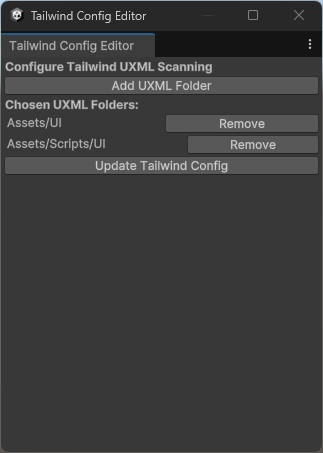
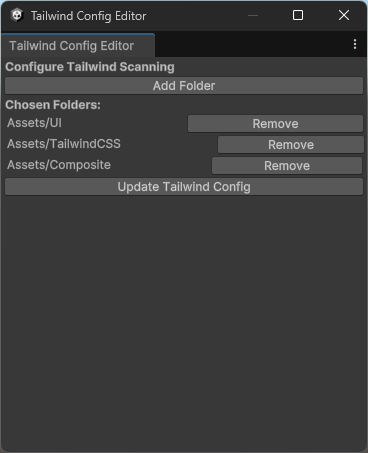
update README

diff --git a/Packages/com.ngc-corp.unity-tailwindcss/Editor/TailwindConfigEditor.cs b/Packages/com.ngc-corp.unity-tailwindcss/Editor/TailwindConfigEditor.cs
@@ -25,12 +25,12 @@ namespace NGCCorp.TailwindCSS
 
     private void OnGUI()
     {
-      GUILayout.Label("Configure Tailwind UXML and CS Scanning", EditorStyles.boldLabel);
+      GUILayout.Label("Configure Tailwind Scanning", EditorStyles.boldLabel);
 
       // Button to select new UXML folder
-      if (GUILayout.Button("Add UXML and CS Folders"))
+      if (GUILayout.Button("Add Folder"))
       {
-        string selectedFolder = EditorUtility.OpenFolderPanel("Select UXML and CS Folders", "", "");
+        string selectedFolder = EditorUtility.OpenFolderPanel("Select Folder", "", "");
 
         if (!string.IsNullOrEmpty(selectedFolder))
         {
@@ -44,7 +44,7 @@ namespace NGCCorp.TailwindCSS
       }
 
       // Display already chosen UXML folders
-      GUILayout.Label("Chosen UXML Folders:", EditorStyles.boldLabel);
+      GUILayout.Label("Chosen Folders:", EditorStyles.boldLabel);
 
       for (int i = 0; i < uxmlFolderPaths.Count; i++)
       {

diff --git a/README.md b/README.md
@@ -1,6 +1,6 @@
 # Unity - Tailwind CSS
 
-Tailwind CSS for Unity allows developers to integrate the powerful Tailwind CSS framework with Unity's UI Toolkit. This tool enables Unity users to leverage Tailwind's utility-first CSS to style UXML components effortlessly. By converting Tailwind's rem and arbitrary value classes to Unity-supported formats and simplifying class structures, this tool facilitates seamless UI styling for games and apps. This tool automatically monitors changes in UXML and C# files, triggering CSS regeneration when needed, and can be added globally to reduce the need for manual updates, significantly enhancing workflow efficiency.
+Tailwind CSS for Unity allows developers to integrate the powerful Tailwind CSS framework with Unity's UI Toolkit. This tool enables Unity users to leverage Tailwind's utility-first CSS to style UXML components effortlessly. By converting Tailwind's rem and arbitrary value classes to Unity-supported formats and simplifying class structures, this tool facilitates seamless UI styling for games and apps. This tool automatically monitors changes in UXML, C# and CSS files, triggering CSS regeneration when needed, and can be added globally to reduce the need for manual updates, significantly enhancing workflow efficiency.
 
 Unity's USS (Unity Style Sheets) is more restrictive with selectors compared to standard CSS used by Tailwind. While this integration brings many benefits of Tailwind into Unity, there are key differences, such as the lack of support for certain selectors and the need to adapt class naming conventions (e.g., avoiding / in class names). We highly recommend checking the example code provided to understand how Tailwind classes are applied in Unity and to explore the differences between traditional Tailwind and this Unity-adapted version.
 
